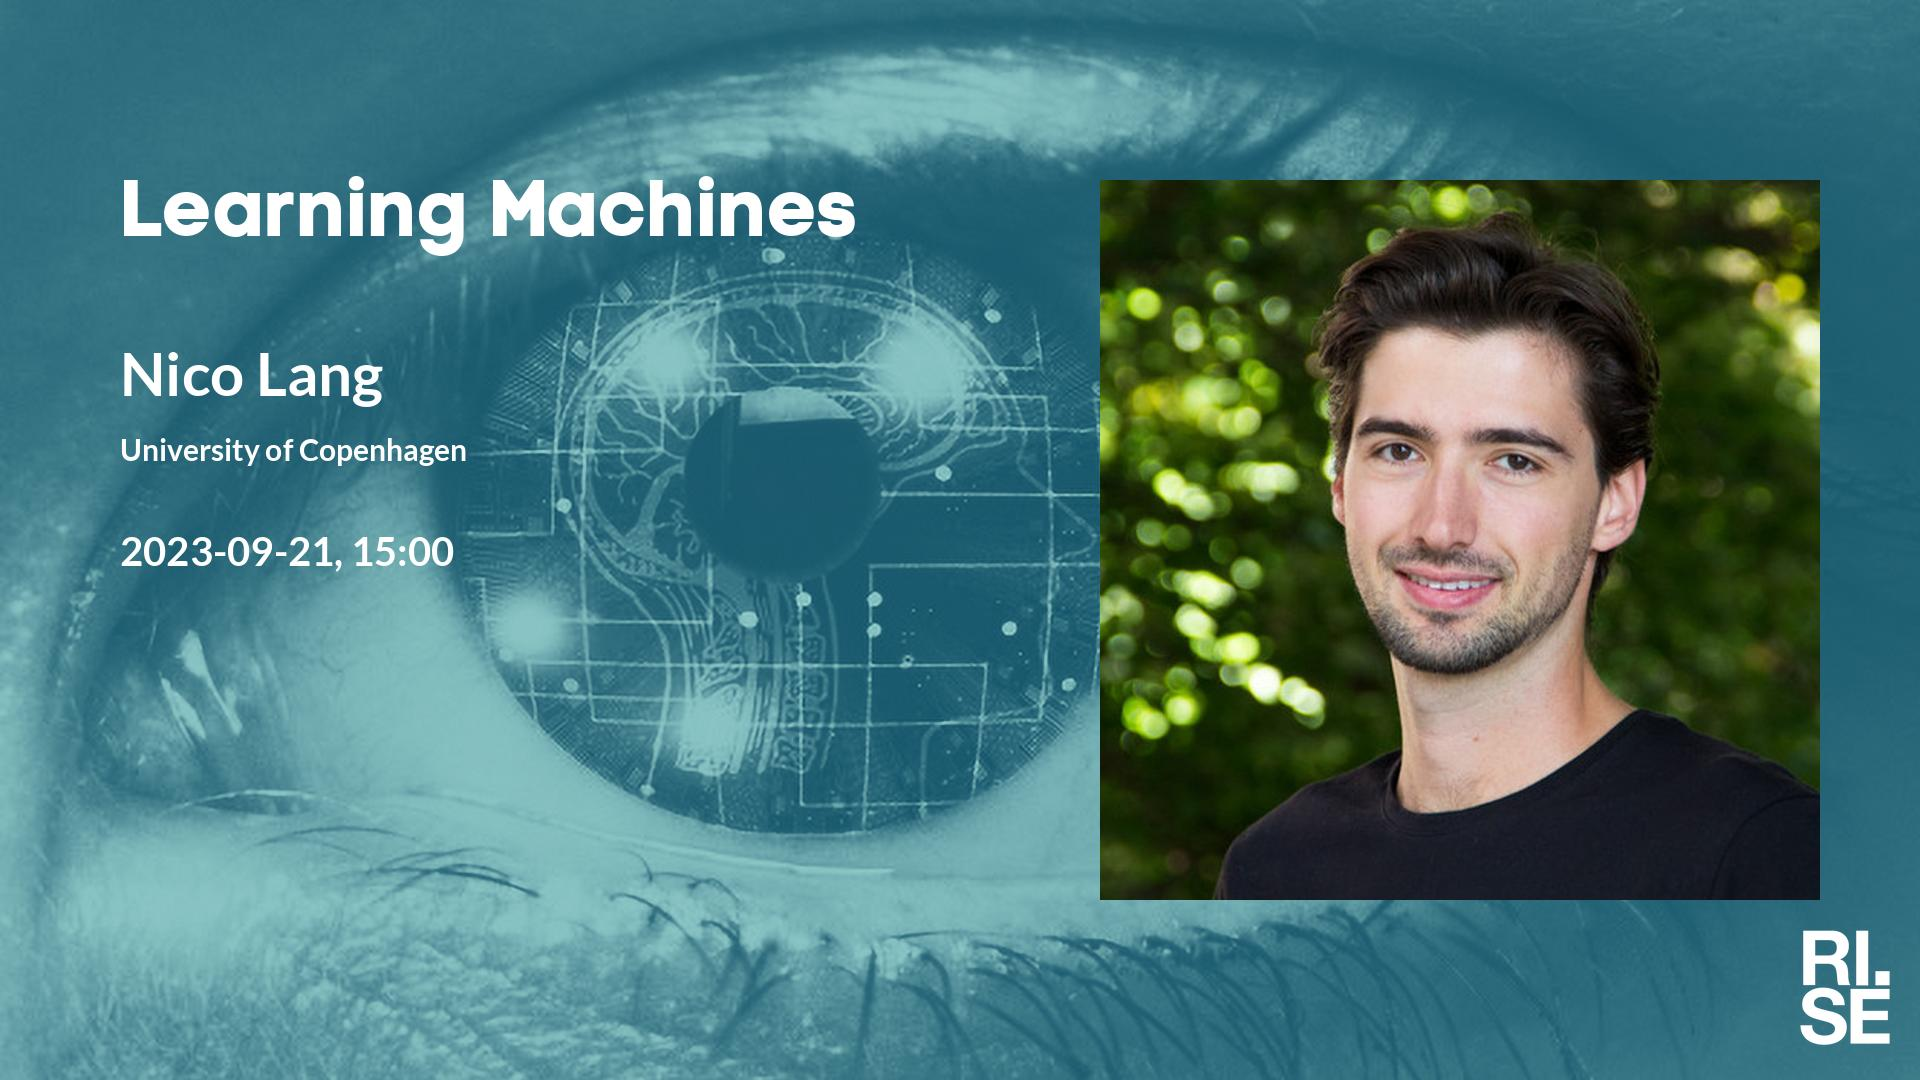
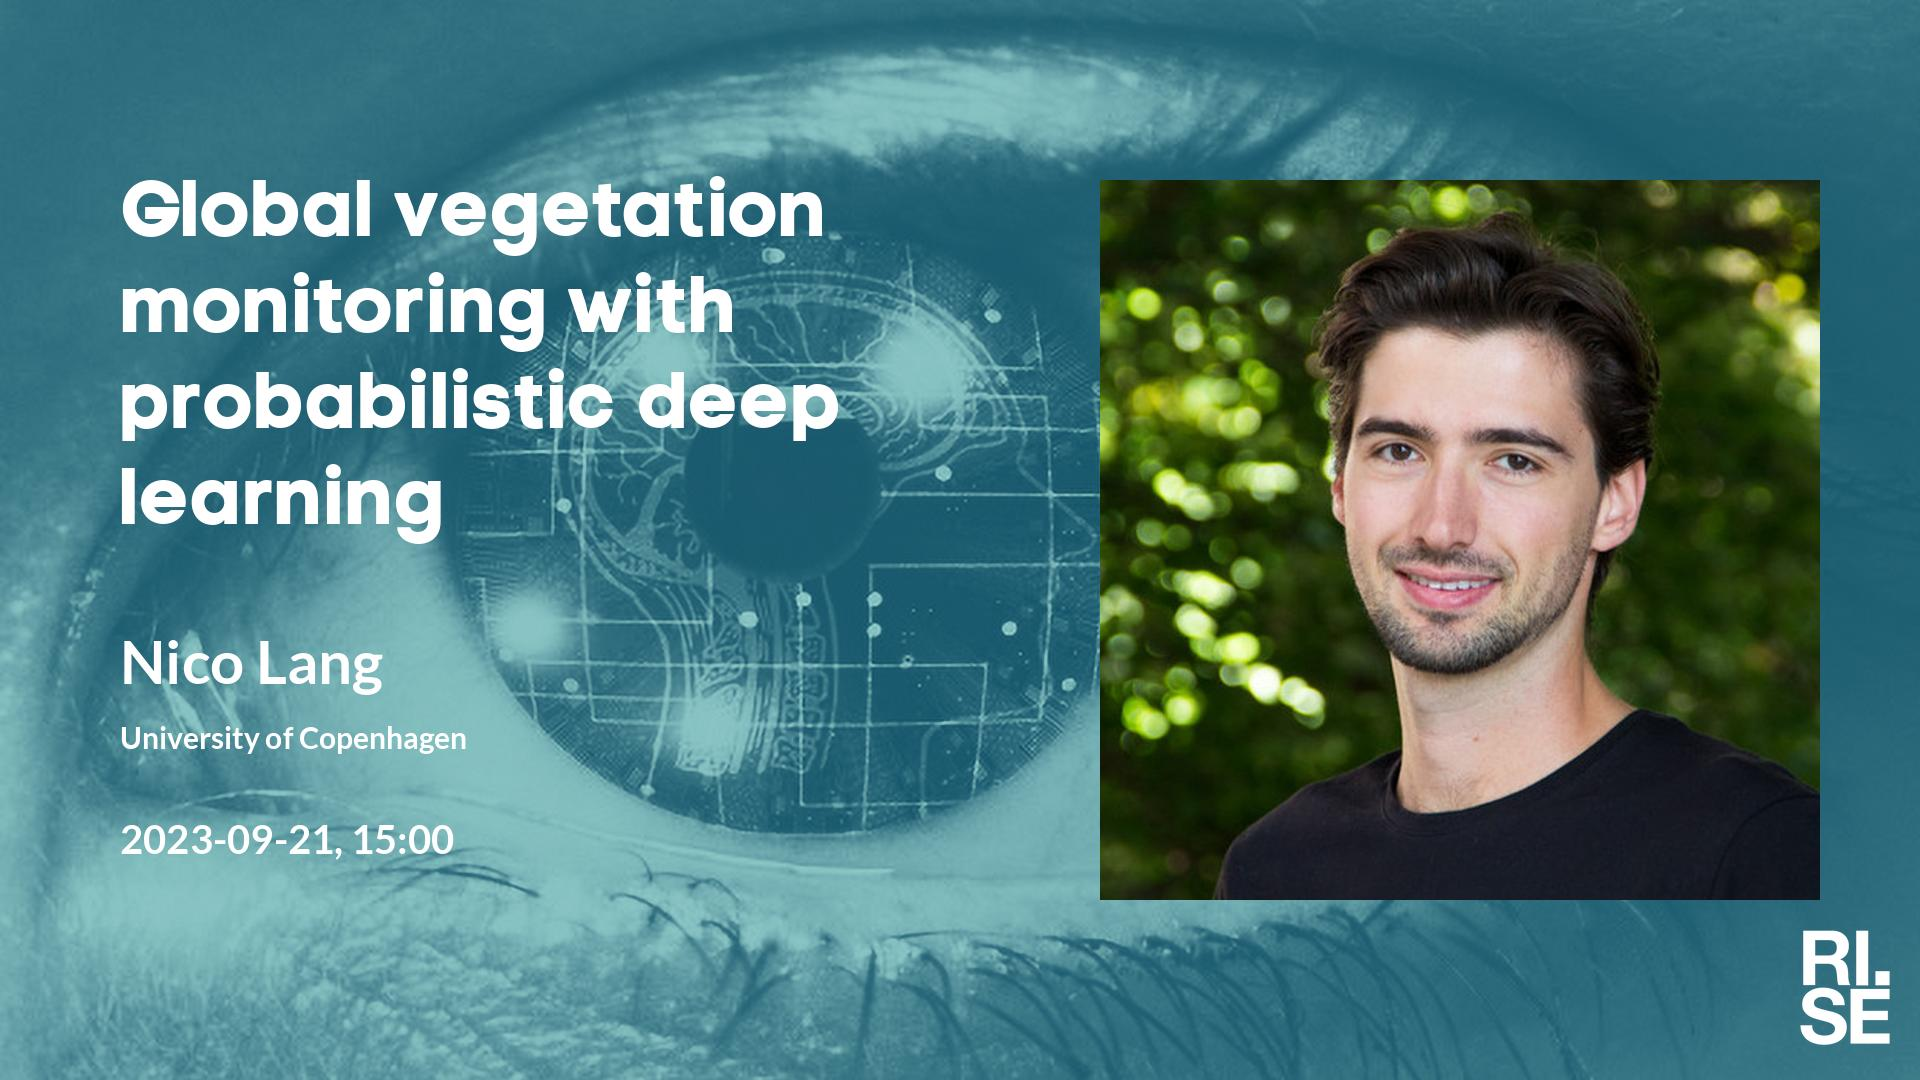
Updated plan on web site.

diff --git a/lm/2023-09-21.md b/lm/2023-09-21.md
@@ -4,13 +4,15 @@ metatags: "<meta name=\"robots\" content=\"noindex,nofollow\" />"
 ---
 Welcome to this week's Learning Machines seminar.
 
-**Title:** N/A
+**Title:** Global vegetation monitoring with probabilistic deep learning
 
 **Speaker:** Nico Lang, University of Copenhagen
 
-**Abstract:** N/A
+**Abstract:** Mapping forest structure on a global scale is an important component for understanding the Earth's carbon cycle and conserving biodiversity. Several new space missions have been developed to support these goals by measuring forest structure to estimate biomass and carbon stocks. To analyze the vast amount of remote sensing data, efficient modelling approaches are needed that are robust to the inherent noise in these data. Data-driven approaches, especially modern deep learning methods, promise great potential for interpreting and combining data from different space missions to estimate vegetation parameters with enhanced spatial and temporal resolution. This talk will present recent research results for global vegetation height mapping exploiting ESA's Sentinel-2 optical imagery and NASA's GEDI full waveform LIDAR. By integrating probabilistic deep learning approaches (i.e. deep ensembles), the predictive uncertainty of the models is quantified, which is crucial for downstream applications that depend on reliable estimates.
 
-**About the speaker:** N/A
+**About the speaker:** Nico is Postdoc at the University of Copenhagen associated with the Pioneer Centre for AI, where he is co-advised by Serge Belongie and Christian Igel. He received his PhD from ETH Zurich, where he was working in the EcoVision Lab that is part of the Photogrammetry and Remote Sensing (PRS) group under the supervision of Prof. Konrad Schindler and Prof. Jan Dirk Wegner. During his master's degree in Geomatics at ETHZ he discovered his fascination for machine learning and computer vision in the context of geodata sciences. Following on from work started during his earlier academic visit to Prof. Pietro Perona’s Computational Vision lab at Caltech, he has worked on deep learning approaches to monitor urban trees from street-level images. In his PhD, he developed an approach to compute a high-resolution canopy height model of the entire Earth by fusing optical satellite images with spaceborne LIDAR. His current research interests include quantifying the uncertainty in such estimates and learning from imbalanced data, which are ubiquitous challenges when working with real-world data. 
+ 
+Website: https://langnico.github.io/
 
 **Location:** location, or online using Zoom.
 

diff --git a/lm/index.md b/lm/index.md
@@ -5,11 +5,10 @@ metatags: "<meta name=\"robots\" content=\"noindex,nofollow\" />"
 <style type="text/css" scoped>
 td, th {border: 1px solid #ccc; padding: 0.6em;}
 table {border-collapse: collapse;}
-</style># Learning Machines Plan 2023-06-08
+</style># Learning Machines Plan 2023-06-14
 
 | date | speaker                                   | photo | shareable | meeting backdrop | youtube thumbnail | <a title="Speaker, Title, Abstract, Bio, Photo. Strikethrough means we don't have it yet.">comment</a>        |
 | ---- | ----------------------------------------- | ----- | ----- | ----- | ----- | -------------- |
-|  2023-05-25  |  [Puzhao Zhang, KTH](2023-05-25.md)  |  [photo](photo-puzhao-zhang.jpg)  |  [social media ](social-media-puzhao-zhang.jpg)  |  [meeting backdrop ](meeting-backdrop-puzhao-zhang.jpg)  |  [youtube thumbnail ](youtube-thumbnail-puzhao-zhang.jpg)  |  STABP  |
 | <span style="color:red"> 2023-06-01 </span> | <span style="color:red"> SUMMER-BREAK! </span> | <span style="color:red">  </span> | <span style="color:red">  </span> | <span style="color:red">  </span> | <span style="color:red">  </span> | <span style="color:red"> CANCELLED </span> |
 | <span style="color:grey"> 2023-08-31 </span> | <span style="color:grey"> Serge B. ? </span> | <span style="color:grey">  </span> | <span style="color:grey">  </span> | <span style="color:grey">  </span> | <span style="color:grey">  </span> | <span style="color:grey"> ?TAB~~P~~ </span> |
 | <span style="color:grey"> 2023-09-07 </span> | <span style="color:grey"> Zhirong Y. ? </span> | <span style="color:grey">  </span> | <span style="color:grey">  </span> | <span style="color:grey">  </span> | <span style="color:grey">  </span> | <span style="color:grey"> ?TAB~~P~~ </span> |
